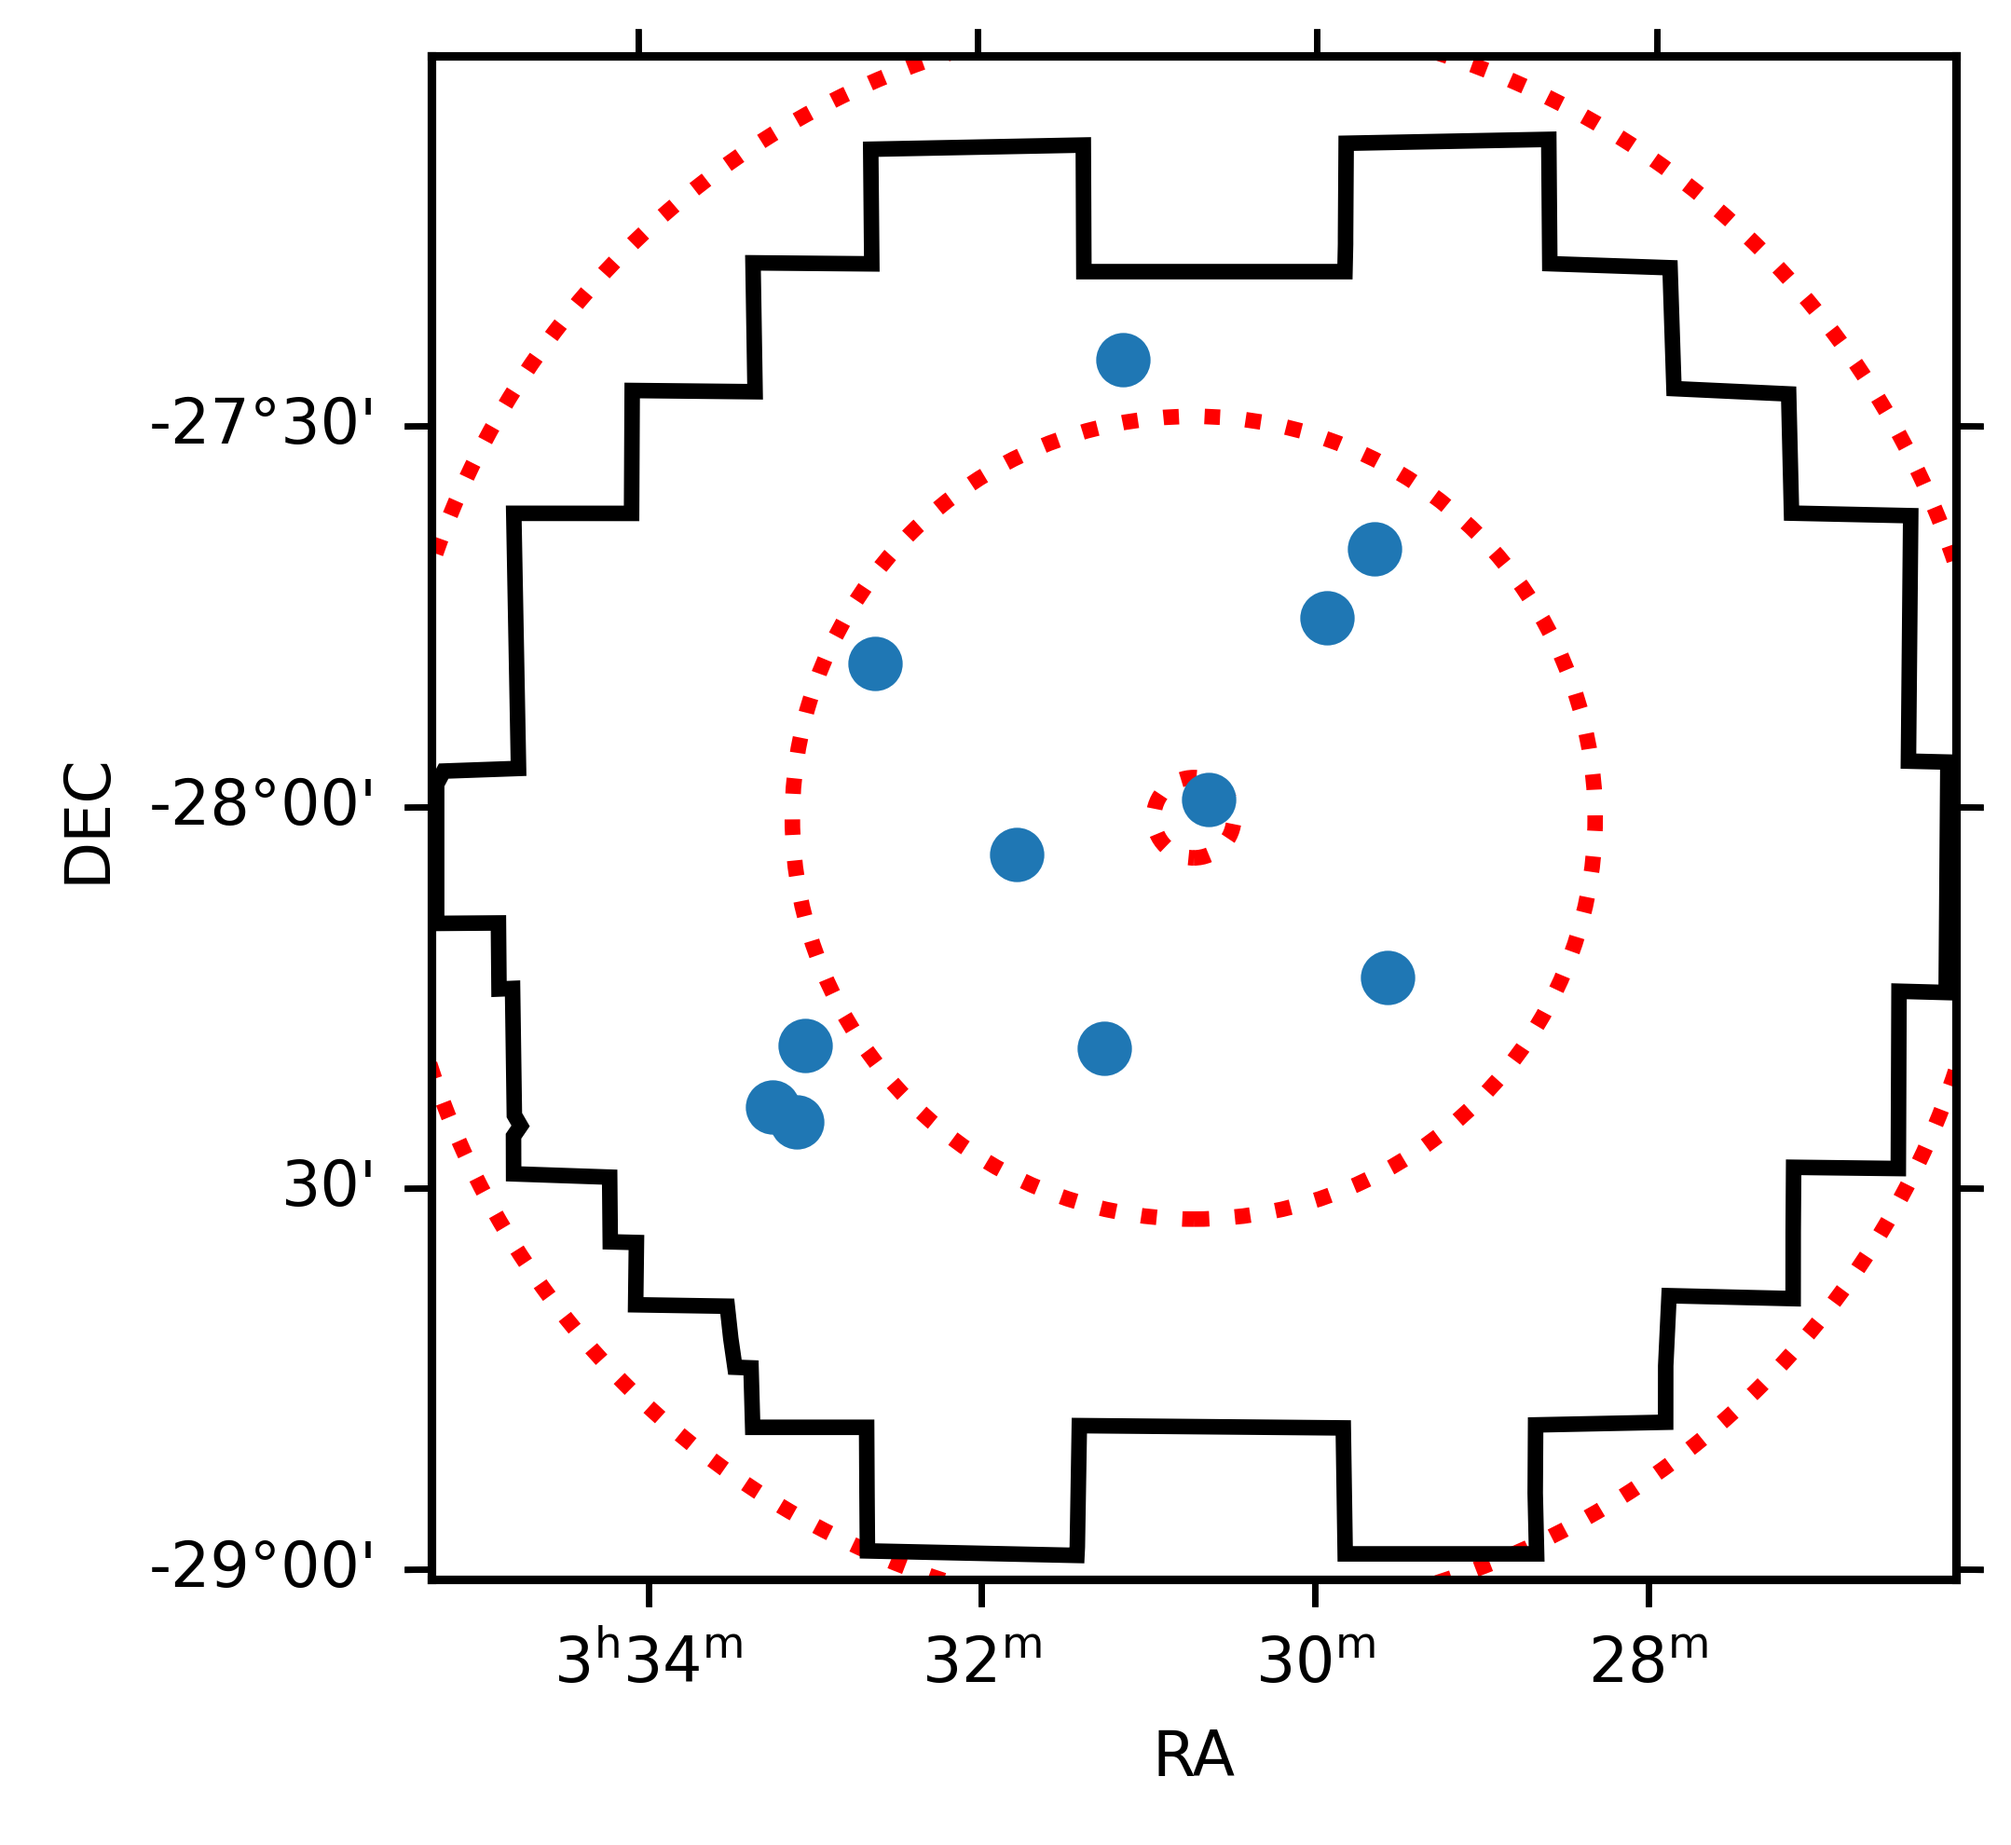
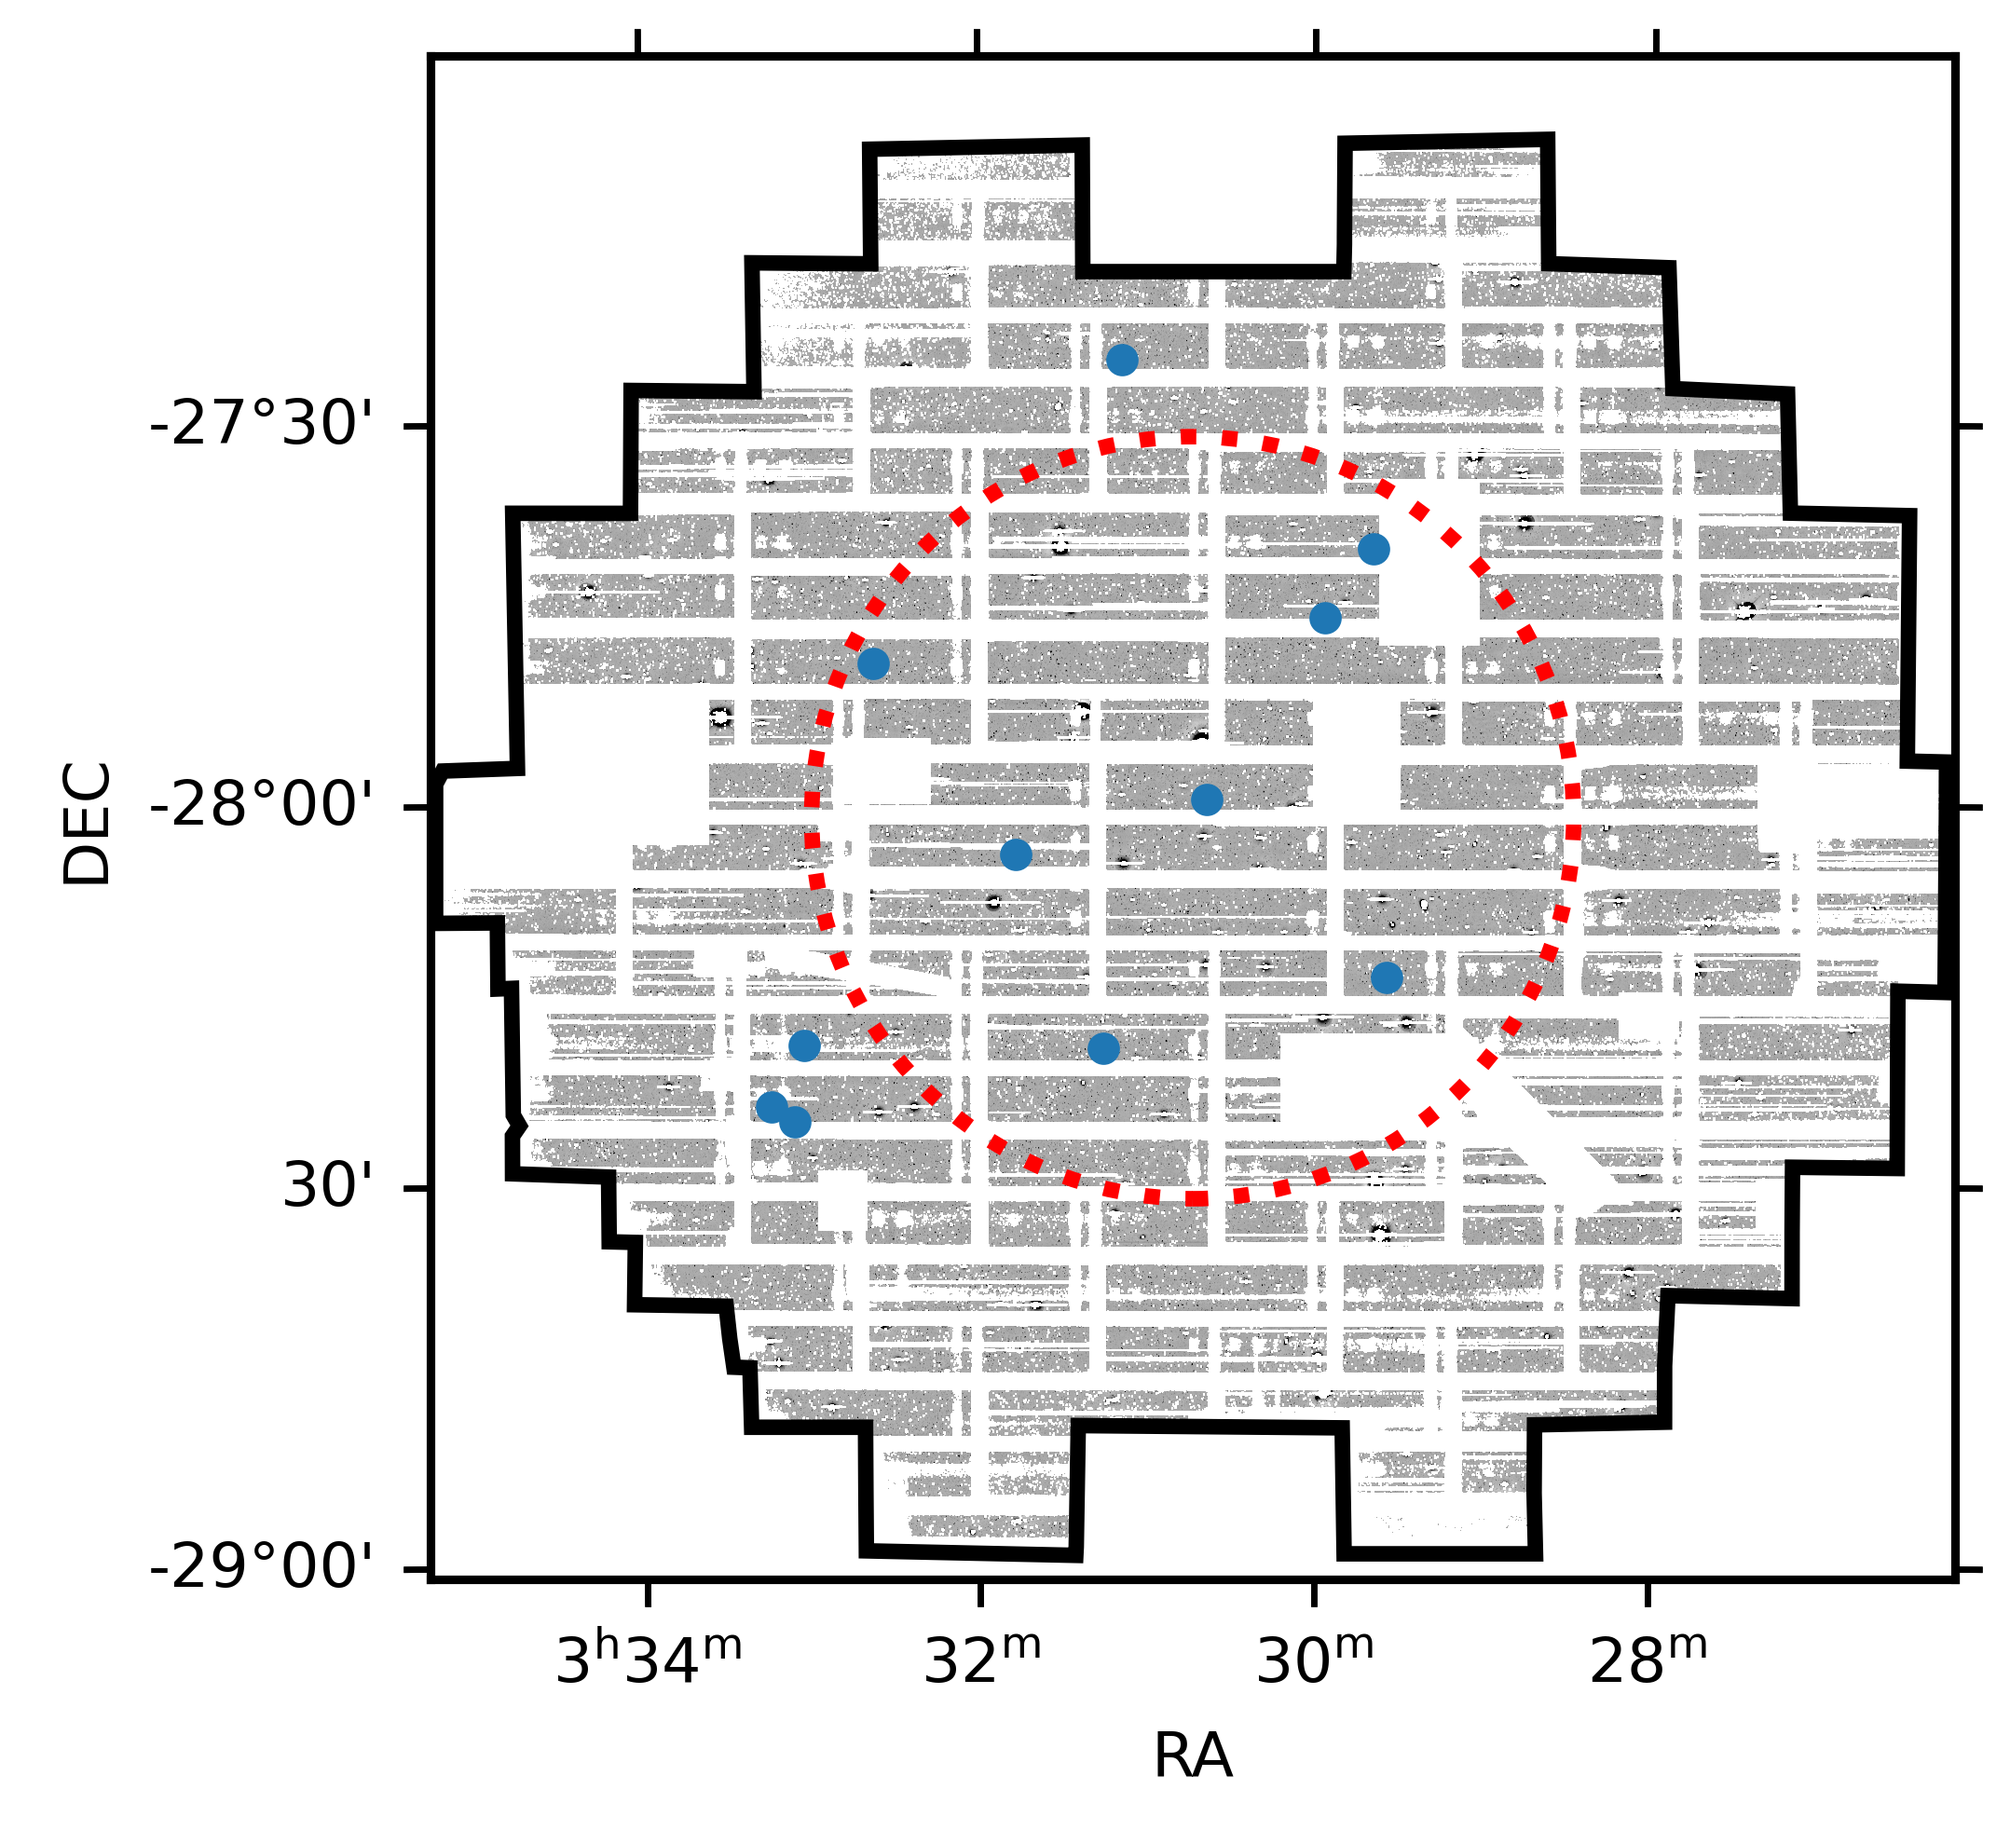
Updated on-sky plots

diff --git a/plot_cdfs_surface_density.py b/plot_cdfs_surface_density.py
@@ -9,6 +9,7 @@ from astropy.io import fits
 from astropy.wcs import WCS
 from astropy.coordinates import angular_separation
 from regionfy_catalog import load_region
+from astropy.visualization import ZScaleInterval
 import plotting
 
 
@@ -39,7 +40,7 @@ center_y, center_x = center_y/2, center_x/2
 RA_QSO, DEC_QSO = decam_wcs.pixel_to_world_values(center_x, center_y)
 REDSHIFT_QSO = 6.9
 COSMO = FlatLambdaCDM(H0=70, Om0=0.3)
-ARCSEC_PER_KPC = COSMO.arcsec_per_kpc_proper(REDSHIFT_QSO)
+ARCSEC_PER_KPC = COSMO.arcsec_per_kpc_comoving(REDSHIFT_QSO)
 DEG_PER_MPC = ARCSEC_PER_KPC.to(u.deg / u.Mpc)
 DEG_PER_PIX = np.abs(decam_hdu[0].header['PC2_2'])
 REGION_FILE = '../CDFS_LAGER/DECAM_CDFS.reg'
@@ -47,20 +48,14 @@ region_decam_fov = load_region(REGION_FILE)
 
 
 if __name__ == '__main__':
-    #Determine Area of CDFS
-    #CDFS_REGION = '../CDFS_LAGER/DECAM_CDFS.reg'
-    #CDFS_CANDIDATES = 'candidates_cdfs_e.txt'
-    #number_candidates_cdfs = len(np.loadtxt(CDFS_CANDIDATES))
-    #AREA_PER_PIXEL = (0.27/3600) * (0.27/3600)  # square degrees
-    #regions = Regions.read(CDFS_REGION, format='ds9')
-    #number_pixels = regions[0].area
-    #area_cdfs_degrees = number_pixels * AREA_PER_PIXEL
 
-    #number_pixels_qso = get_number_pixels_of_region('DECAM.reg')
-
-    #print('Area ratio: ', number_pixels/number_pixels_qso)
-
-
+    CDFS_MASK = fits.open('CDFS_MASK.fits')
+    cdfs_mask_data = CDFS_MASK[0].data
+    cdfs_mask_data[cdfs_mask_data == 0] = np.nan
+    image = fits.open('../CDFS_LAGER/n964.fits')
+    masked_image = image[0].data * cdfs_mask_data
+    zscale = ZScaleInterval()
+    lower_lim, upper_lim = zscale.get_limits(masked_image)
     INFILE = 'candidates_cdfs_e.txt'
     ra, dec = np.loadtxt(INFILE, unpack=True)
 
@@ -68,7 +63,7 @@ if __name__ == '__main__':
     ra_qso_plot, dec_qso_plot = decam_wcs.world_to_pixel_values(RA_QSO, DEC_QSO)
 
     #On sky distribution plot.
-    region_1 = set_region(ra_qso_plot, dec_qso_plot, 1)
+    region_1 = set_region(ra_qso_plot, dec_qso_plot, 75)
     region_10 = set_region(ra_qso_plot, dec_qso_plot, 10)
     region_20 = set_region(ra_qso_plot, dec_qso_plot, 20)
 
@@ -76,12 +71,13 @@ if __name__ == '__main__':
     ax = fig.add_subplot(projection = decam_wcs)
     ax.set_xlabel('RA')
     ax.set_ylabel('DEC')
-    ax.imshow(decam_hdu[0].data, alpha=0)
+    #ax.imshow(cdfs_mask_data, alpha=0.4, cmap='gray_r')
+    ax.imshow(masked_image, cmap='gray_r', vmin=lower_lim, vmax=upper_lim)
     region_1.plot(ax=ax, color='red', lw=2.0, ls=':')
-    region_10.plot(ax=ax, color='red', lw=2.0, ls=':')
-    region_20.plot(ax=ax, color='red', lw=2.0, ls=':')
+    #region_10.plot(ax=ax, color='red', lw=2.0, ls=':')
+    #region_20.plot(ax=ax, color='red', lw=2.0, ls=':')
     region_decam_fov.plot(ax = ax, color='k', lw=2.0)
-    ax.scatter(ra_plot, dec_plot)
+    ax.scatter(ra_plot, dec_plot, s=10)
     plotting.end_plot('plots/on_sky_distribution_cdfs.png')
 
     #on sky surface distribution plot.

diff --git a/plot_onsky_distribution.py b/plot_onsky_distribution.py
@@ -8,6 +8,7 @@ from astropy.cosmology import FlatLambdaCDM
 from astropy.io import fits
 from astropy.wcs import WCS
 from astropy.coordinates import angular_separation
+from astropy.visualization import ZScaleInterval
 
 from plot_cumulative import CDFS_AREA
 from regionfy_catalog import load_region
@@ -27,6 +28,9 @@ def set_region(ra_pix, dec_pix, radius_mpc: float):
 
 
 DECAM_SHAPE_FILE = '../correct_stacks/N964/n964_weight.fits'
+CDFS_IMAGE_FILE = '../correct_stacks/N964/n964.fits'
+
+image_data = fits.open(CDFS_IMAGE_FILE)
 decam_hdu = fits.open(DECAM_SHAPE_FILE)
 decam_wcs = WCS(decam_hdu[0].header)
 
@@ -39,12 +43,17 @@ DEG_PER_MPC = ARCSEC_PER_KPC.to(u.deg / u.Mpc)
 DEG_PER_PIX = np.abs(decam_hdu[0].header['PC2_2'])
 REGION_FILE = 'decam.reg'
 region_decam_fov = load_region(REGION_FILE)
+region_decam_mask = fits.open('DECAM_MASK.fits')
+region_decam_mask = region_decam_mask[0].data
+region_decam_mask[region_decam_mask == 0] = np.nan
 
+image_data[0].data = image_data[0].data * region_decam_mask
 
 if __name__ == '__main__':
     #Determine Area of CDFS
     CDFS_REGION = '../CDFS_LAGER/DECAM_CDFS.reg'
     CDFS_CANDIDATES = 'candidates_cdfs_e.txt'
+    
     number_candidates_cdfs = len(np.loadtxt(CDFS_CANDIDATES))
     area_cdfs_arcsec = CDFS_AREA * u.arcsec
     area_cdfs_deg = area_cdfs_arcsec.to(u.deg)
@@ -64,6 +73,9 @@ if __name__ == '__main__':
 
     fig = plt.figure(figsize = (3.54, 3.54), dpi = 600)
     ax = fig.add_subplot(projection = decam_wcs)
+    zscale = ZScaleInterval()
+    lower, upper = zscale.get_limits(image_data[0].data)
+    ax.imshow(image_data[0].data, cmap='gray_r', vmin=lower, vmax=upper)
     ax.set_xlabel('RA')
     ax.set_ylabel('DEC')
     ax.imshow(decam_hdu[0].data, alpha=0)
@@ -71,7 +83,7 @@ if __name__ == '__main__':
     region_10.plot(ax=ax, color='red', lw=2.0, ls=':')
     #region_20.plot(ax=ax, color='red', lw=2.0, ls=':')
     region_decam_fov.plot(ax = ax, color='k', lw=2.0)
-    ax.scatter(ra_plot, dec_plot)
+    ax.scatter(ra_plot, dec_plot, s=10)
     ax.scatter(ra_qso_plot, dec_qso_plot, marker='*', s=100, color='k')
     plotting.end_plot('plots/on_sky_distribution.png')
 

diff --git a/make_masked_decam_fits.py b/make_masked_decam_fits.py
@@ -1,0 +1,19 @@
+"""
+Making a masked fits file for our decam field
+"""
+
+from astropy.io import fits
+from regionfy_catalog import load_region
+
+FITS_FILE = '../correct_stacks/N964/n964.fits'
+REGION_FILE = 'decam.reg'
+
+image = fits.open(FITS_FILE)
+region_decam_fov = load_region(REGION_FILE)
+print('making mask')
+region_decam_mask = region_decam_fov.to_mask()
+print('converting to image')
+region_image = region_decam_mask.to_image(image[0].data.shape)
+print('mask done, writing to file')
+image[0].data = region_image
+image.writeto('DECAM_MASK.fits', overwrite=True)
